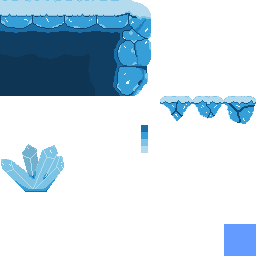
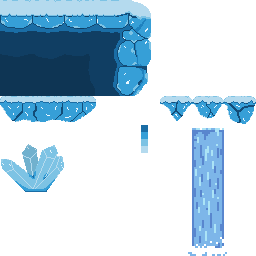
pas mal de trucs

Changed region(s): [[0.7188, 0.5, 1.0, 1.0], [0.0, 0.375, 0.375, 0.5]]

diff --git a/debut.js b/debut.js
@@ -21,12 +21,12 @@ class debut extends Phaser.Scene {
         this.load.image("SpriteFireBall", "assets/SpriteFireBall.png")
         this.load.image("plante", "assets/plante.png")
         this.load.image("plante_mine", "assets/plante_mine.png")
+        this.load.image("cascade", "assets/cascade.png")
     }
 
     create() {
-        this.SpriteHitBox = this.physics.add.sprite(1230, 50, "SpriteHitBox").setSize(36, 288);
+        
         this.ShrinkHitBox = this.physics.add.sprite(24*32,9.5*32,'SpriteHitBox').setSize(576, 32);
-
         this.add.image(800, 800, "background");
         this.appuyer = false;
         //dash
@@ -77,6 +77,10 @@ class debut extends Phaser.Scene {
             "test",
             tileset
         );
+        const mousse = carteDuNiveau.createLayer(
+            "mousse",
+            tileset
+        );
         test.setCollisionByProperty({ estSolide: true });
         this.player = this.physics.add.sprite(50, 50, 'perso');
         this.player.setCollideWorldBounds(true);
@@ -85,9 +89,8 @@ class debut extends Phaser.Scene {
         this.plante = this.physics.add.group();
         this.plante_mine = this.physics.add.group();
 
-        this.SpriteHitBox.setCollideWorldBounds(true);
         this.ShrinkHitBox.body.setAllowGravity(false);
-        this.SpriteHitBox.setImmovable(true);
+
         this.physics.add.collider(this.player, test);
         this.physics.add.collider(this.player, this.plante, this.touchPlant, null, this)
         this.physics.add.collider(this.plante_mine, test)
@@ -104,6 +107,11 @@ class debut extends Phaser.Scene {
         this.calque_cristaux = carteDuNiveau.getObjectLayer('cristaux');
         this.calque_cristaux.objects.forEach(calque_cristaux => {
             const POP = this.cristaux.create(calque_cristaux.x + 0, calque_cristaux.y - 48, "cristaux").setScale(2).body.setAllowGravity(false).setImmovable(true);
+        });
+        this.cascade = this.physics.add.group();
+        this.calque_cascade = carteDuNiveau.getObjectLayer('cascade');
+        this.calque_cascade.objects.forEach(calque_cascade => {
+            const POP = this.cascade.create(calque_cascade.x + 0, calque_cascade.y - 160, "cascade").body.setAllowGravity(false).setImmovable(true);
         });
 
         this.anims.create({
@@ -131,8 +139,9 @@ class debut extends Phaser.Scene {
 
     update() {
 
-        
-
+        if(this.clavier.D.isDown){
+        console.log(this. onPlant)
+        }
         if (this.clavier.I.isDown && this.mageFeu == false && this.estPetit == false){
             this.mageFeu = true;
             this.mageEau = false;
@@ -267,7 +276,7 @@ class debut extends Phaser.Scene {
 
         }
 
-        if (this.clavier.A.isDown && this.physics.overlap(this.player, this.SpriteHitBox) && this.mageEau == true) {
+        if (this.clavier.A.isDown && this.physics.overlap(this.player, this.cascade) && this.mageEau == true) {
 
             this.player.body.setAllowGravity(false);
             this.player.setVelocityY(-150)
